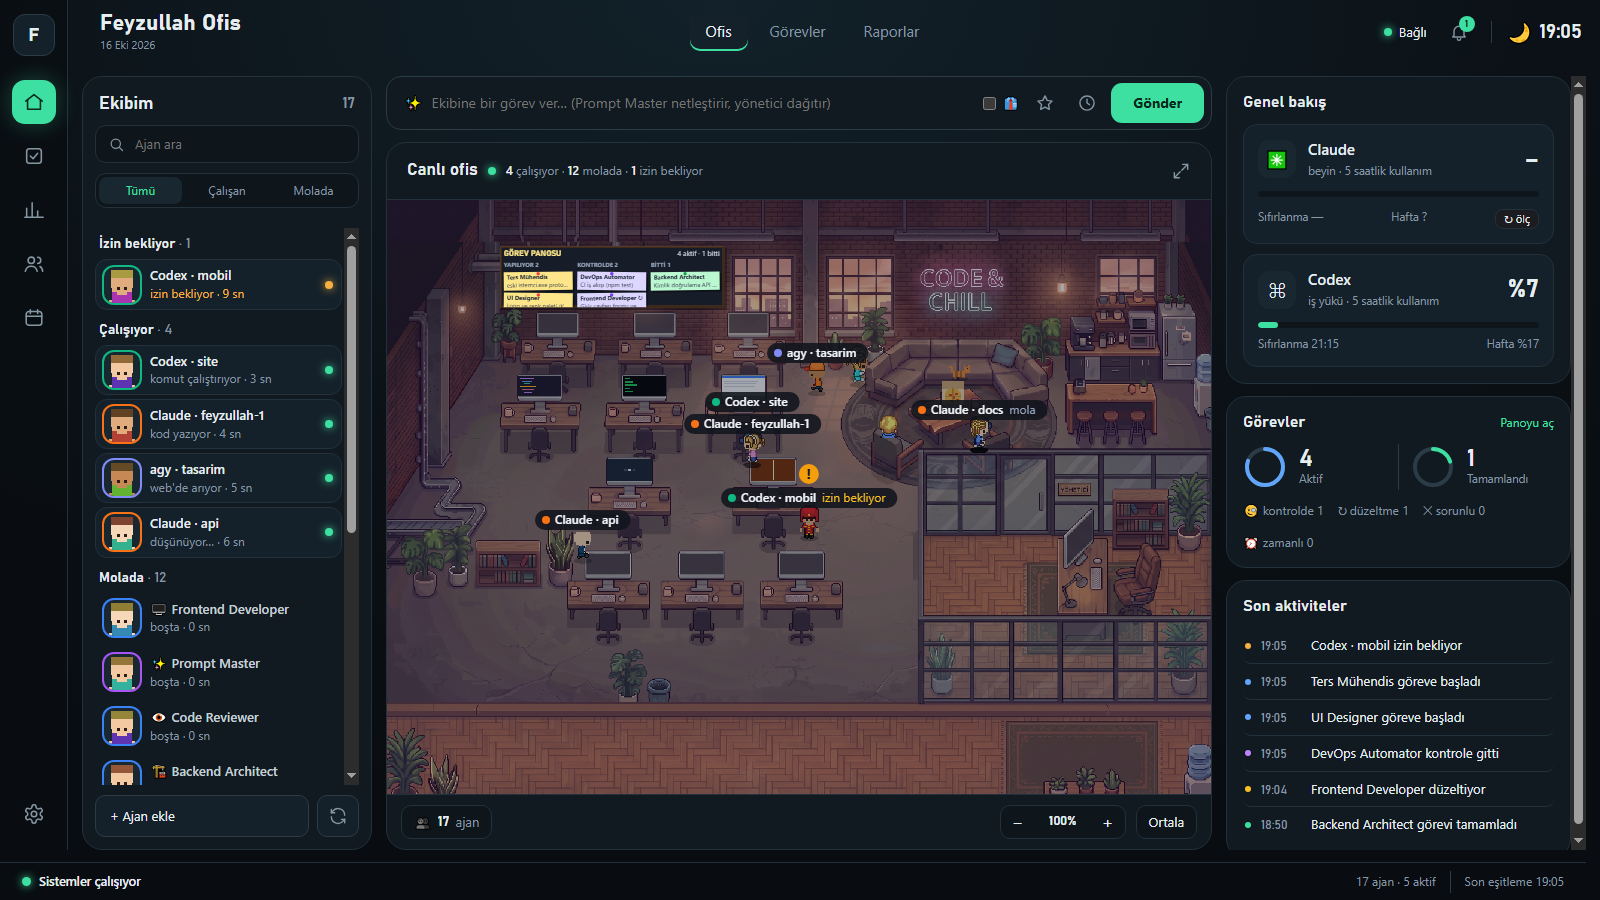
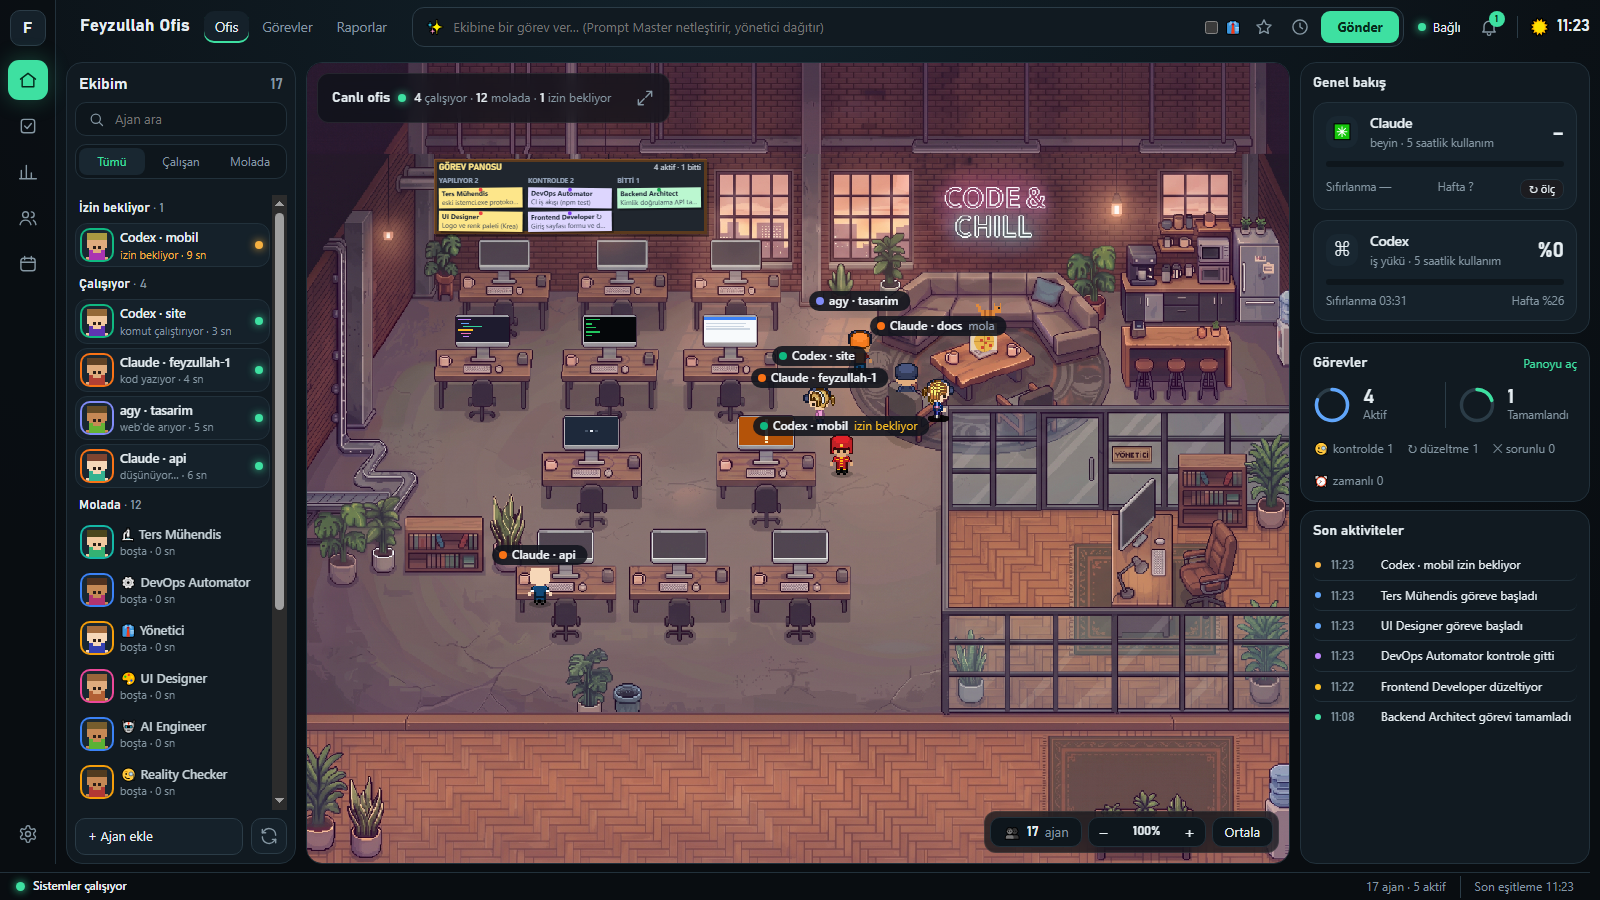
Arayüz: ofis en büyük alan; komut kutusu üst çubukta, bilgi çubukları ofisin üstünde

diff --git a/renderer/index.html b/renderer/index.html
@@ -29,6 +29,16 @@
         <button id="tabTasks" class="tab" data-view="tasks">Görevler</button>
         <button id="tabReports" class="tab" data-view="reports">Raporlar</button>
       </div>
+      <form id="adminForm" class="admin-form">
+        <span class="spark">✨</span>
+        <input id="adminText" maxlength="8000" placeholder="Ekibine bir görev ver… (Prompt Master netleştirir, yönetici dağıtır)" autocomplete="off">
+        <label class="direct" title="Prompt Master'ı atla, doğrudan yöneticiye"><input id="adminDirect" type="checkbox"> 👔</label>
+        <button type="button" id="savedBtn" class="icon-btn" title="Kayıtlı komutlar"><svg class="ic" viewBox="0 0 24 24" aria-hidden="true"><path d="M12 3.5l2.6 5.3 5.9.9-4.3 4.1 1 5.8L12 16.9l-5.2 2.7 1-5.8-4.3-4.1 5.9-.9z"/></svg></button>
+        <button type="button" id="schedBtn" class="icon-btn" title="Zamanla: belli saatte ya da limit açılınca gönder"><svg class="ic" viewBox="0 0 24 24" aria-hidden="true"><circle cx="12" cy="12" r="8.5"/><path d="M12 7.5V12l3 2"/></svg><b id="schedCount" hidden></b></button>
+        <button type="submit" class="send">Gönder</button>
+      </form>
+      <div id="savedPop" class="pop saved-pop" hidden></div>
+      <div id="schedPop" class="pop sched-pop" hidden></div>
       <div class="hdr-right">
         <span id="conn" class="conn off" title="Feyzullah köprüsü"><i></i><span id="connText">Bağlanıyor</span></span>
         <button id="bellBtn" class="icon-btn" title="Bildirimler"><svg class="ic" viewBox="0 0 24 24" aria-hidden="true"><path d="M6 16V11a6 6 0 0112 0v5l1.5 2h-15z"/><path d="M10 20a2 2 0 004 0"/></svg><b id="bellCount" hidden></b></button>
@@ -53,30 +63,19 @@
     </aside>
 
     <section class="office">
-      <form id="adminForm" class="admin-form">
-        <span class="spark">✨</span>
-        <input id="adminText" maxlength="8000" placeholder="Ekibine bir görev ver… (Prompt Master netleştirir, yönetici dağıtır)" autocomplete="off">
-        <label class="direct" title="Prompt Master'ı atla, doğrudan yöneticiye"><input id="adminDirect" type="checkbox"> 👔</label>
-        <button type="button" id="savedBtn" class="icon-btn" title="Kayıtlı komutlar"><svg class="ic" viewBox="0 0 24 24" aria-hidden="true"><path d="M12 3.5l2.6 5.3 5.9.9-4.3 4.1 1 5.8L12 16.9l-5.2 2.7 1-5.8-4.3-4.1 5.9-.9z"/></svg></button>
-        <button type="button" id="schedBtn" class="icon-btn" title="Zamanla: belli saatte ya da limit açılınca gönder"><svg class="ic" viewBox="0 0 24 24" aria-hidden="true"><circle cx="12" cy="12" r="8.5"/><path d="M12 7.5V12l3 2"/></svg><b id="schedCount" hidden></b></button>
-        <button type="submit" class="send">Gönder</button>
-      </form>
-      <div id="savedPop" class="pop saved-pop" hidden></div>
-      <div id="schedPop" class="pop sched-pop" hidden></div>
-
       <div class="stage-card">
-        <div class="sc-head">
-          <div class="sc-title" id="viewTitle">Canlı ofis</div>
-          <span class="live-dot"></span><span id="counts" class="dim">Bağlanıyor…</span>
-          <span class="grow"></span>
-          <button id="fullBtn" class="icon-btn" title="Tam ekran (yan panelleri gizle)"><svg class="ic" viewBox="0 0 24 24" aria-hidden="true"><path d="M14 4h6v6M10 20H4v-6M20 4l-7 7M4 20l7-7"/></svg></button>
-        </div>
         <div id="stage" class="stage">
           <canvas id="world"></canvas>
         </div>
         <div id="tasksView" class="kanban" hidden></div>
         <div id="reportsView" class="reports" hidden></div>
-        <div class="sc-foot" id="stageFoot">
+        <div class="sc-head overlay">
+          <div class="sc-title" id="viewTitle">Canlı ofis</div>
+          <span class="live-dot"></span><span id="counts" class="dim">Bağlanıyor…</span>
+          <span class="grow"></span>
+          <button id="fullBtn" class="icon-btn" title="Tam ekran (yan panelleri gizle)"><svg class="ic" viewBox="0 0 24 24" aria-hidden="true"><path d="M14 4h6v6M10 20H4v-6M20 4l-7 7M4 20l7-7"/></svg></button>
+        </div>
+        <div class="sc-foot overlay" id="stageFoot">
           <span class="pill-s">👥 <b id="agentCount">0</b> ajan</span>
           <span class="grow"></span>
           <div class="zoom">

diff --git a/renderer/style.css b/renderer/style.css
@@ -360,6 +360,74 @@ dialog .row input, dialog .row select { flex: 1; }
   .app { grid-template-columns: 68px 240px minmax(0, 1fr) 320px; }
   .tab { padding: 8px 10px; }
 }
+/* ---- sıkı düzen: ofis en büyük alan. Komut kutusu üst çubukta; kart başlığı ve alt çubuk ofisin üstüne biner. ---- */
+.app { gap: 8px 10px; padding: 0 10px 0 0;
+  grid-template-columns: 56px 230px minmax(0, 1fr) 290px; grid-template-rows: 54px minmax(0, 1fr) 28px; }
+.app.full { grid-template-columns: 56px 0 minmax(0, 1fr) 0; }
+.app.full .office { margin-left: 10px; }
+.rail { padding: 10px 0; gap: 6px; }
+.logo { width: 36px; height: 36px; font-size: 16px; margin-bottom: 8px; border-radius: 10px; }
+.nav { width: 40px; height: 40px; border-radius: 11px; }
+.nav .ic { width: 20px; height: 20px; }
+
+.hdr { gap: 14px; padding: 0 0 0 14px; }
+.brand { font-size: 17px; }
+.brand-box .dim { display: none; }
+.tabs { margin: 0; gap: 2px; }
+.tab { padding: 6px 11px; font-size: 13.5px; }
+.hdr .admin-form { flex: 1; min-width: 260px; height: 40px; padding: 0 4px 0 12px; border-radius: 12px; }
+.hdr .admin-form input:not([type]) { font-size: 13px; }
+.hdr .admin-form .icon-btn { width: 30px; height: 30px; }
+.hdr .send { height: 32px; padding: 0 16px; font-size: 13px; border-radius: 9px; }
+.hdr-right { gap: 10px; }
+.clock { font-size: 17px; }
+.saved-pop, .sched-pop { top: 50px; left: 360px; right: 230px; }
+.bell-pop { top: 50px; right: 70px; }
+
+.agents { padding: 12px 8px 8px; gap: 8px; border-radius: 16px; }
+.ag-title { font-size: 16px; }
+.search { height: 34px; }
+.chip { padding: 4px 6px; gap: 8px; }
+.chip .ava { width: 30px; height: 30px; border-radius: 8px; }
+.chip .c-name { font-size: 12.5px; }
+.chip .c-act { font-size: 11px; }
+.roster .grp { font-size: 13px; margin-top: 6px; }
+.add-agent { padding: 8px 12px; }
+.ag-foot .icon-btn { width: 36px; height: 36px; }
+
+.office { gap: 0; }
+.stage-card { position: relative; border-radius: 16px; }
+.stage { flex: 1; }
+.overlay { position: absolute; left: 10px; right: 10px; z-index: 3; border: 1px solid rgba(255,255,255,.08); border-radius: 12px;
+  background: rgba(11,17,22,.72); backdrop-filter: blur(8px); }
+.sc-head.overlay { top: 10px; right: auto; padding: 6px 6px 6px 14px; gap: 8px; }
+.sc-head.overlay .sc-title { font-size: 14px; }
+.sc-foot.overlay { bottom: 10px; left: auto; padding: 5px; gap: 6px; border-top: 1px solid rgba(255,255,255,.08); }
+.sc-foot.overlay .grow { display: none; }
+.sc-foot .pill-s, .sc-foot .zoom { height: 30px; }
+.sc-foot .zoom button { width: 30px; height: 30px; }
+.kanban, .reports { padding-top: 60px; }
+
+.detail { gap: 8px; }
+.overview { gap: 8px; }
+.ov-card { padding: 12px; gap: 10px; border-radius: 16px; }
+.ov-h b { font-size: 14px; }
+.uc { padding: 10px 12px; }
+.uc .u-ic { width: 32px; height: 32px; font-size: 15px; }
+.uc .u-t { font-size: 13.5px; }
+.uc .u-v { font-size: 21px; }
+.uc .bar { margin-top: 8px; }
+.ring svg { width: 38px; height: 38px; }
+.ring .v { font-size: 20px; }
+.act-row { padding: 6px 2px; font-size: 12px; }
+.statusbar { padding: 0 16px; font-size: 11.5px; }
+
+@media (max-width: 1350px) {
+  .app { grid-template-columns: 56px 200px minmax(0, 1fr) 260px; }
+  .tab { padding: 6px 8px; }
+  .brand { display: none; }
+}
+
 @media (max-width: 1050px) {
   .app { grid-template-columns: 60px minmax(0, 1fr); grid-template-areas: "rail hdr" "rail office" "foot foot"; }
   .agents { display: none; }
